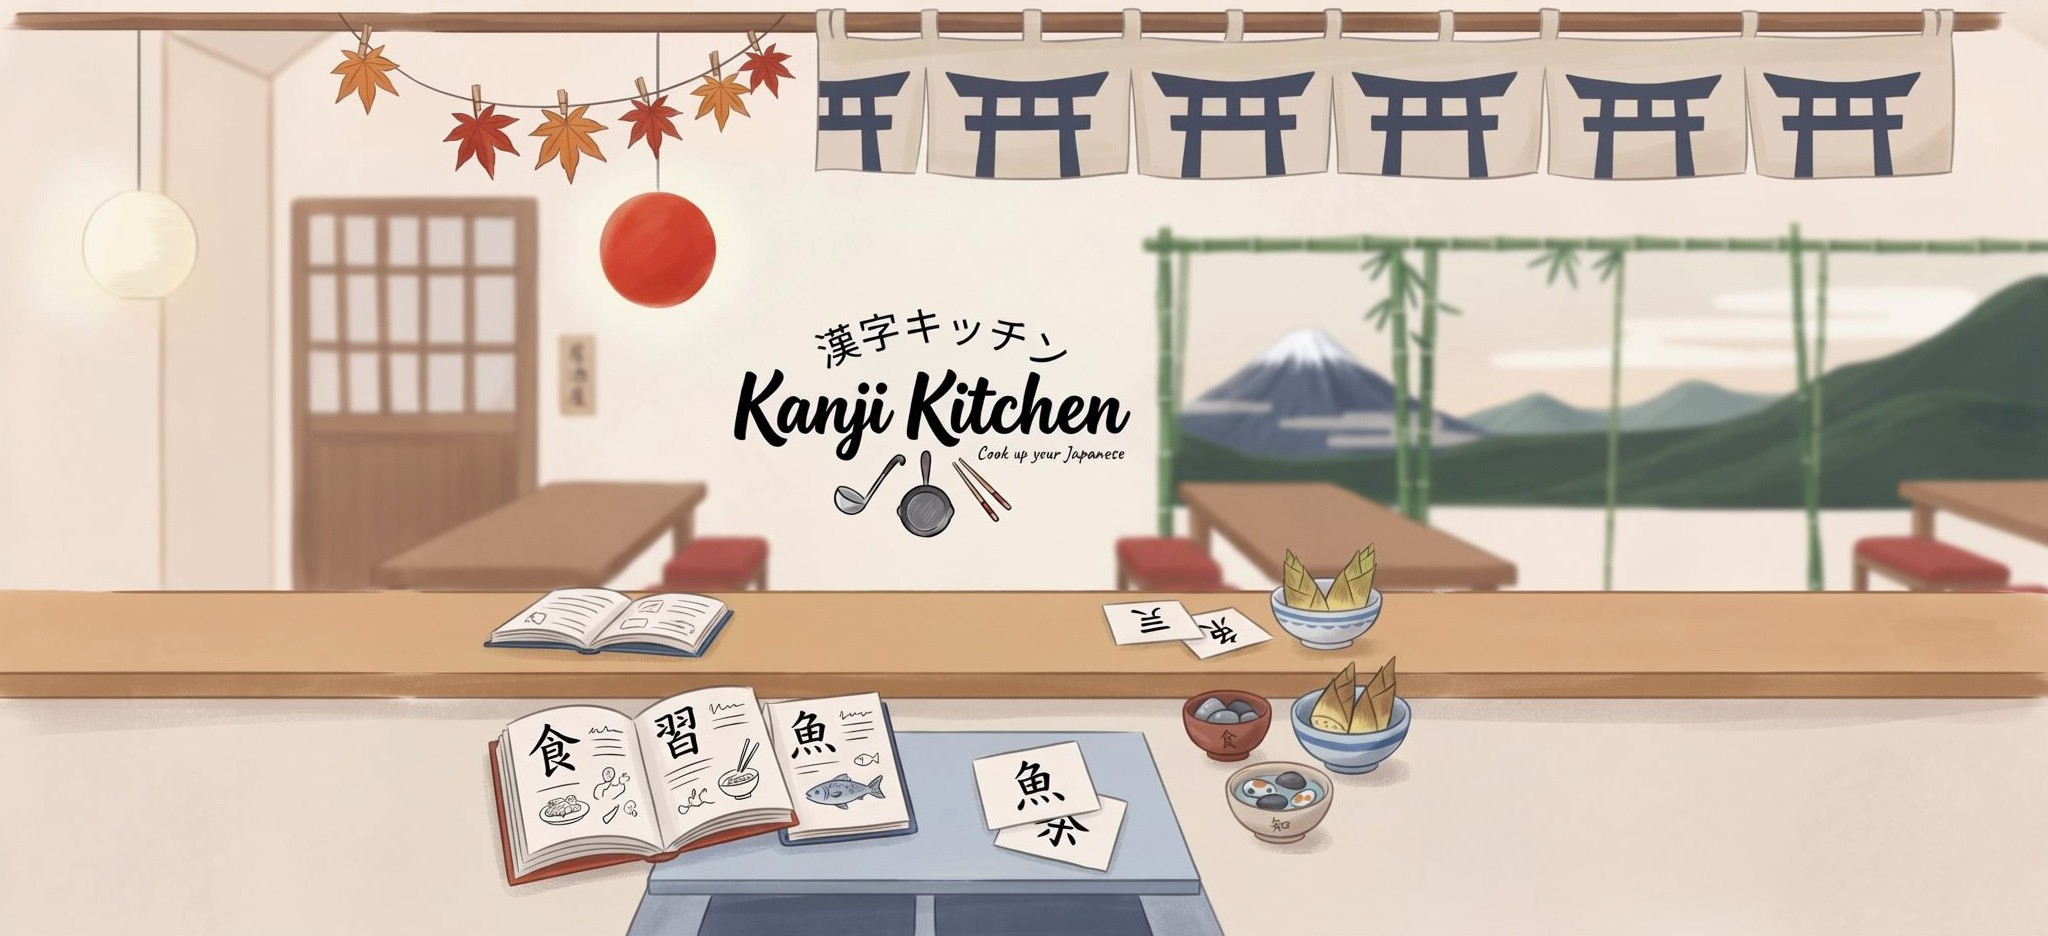
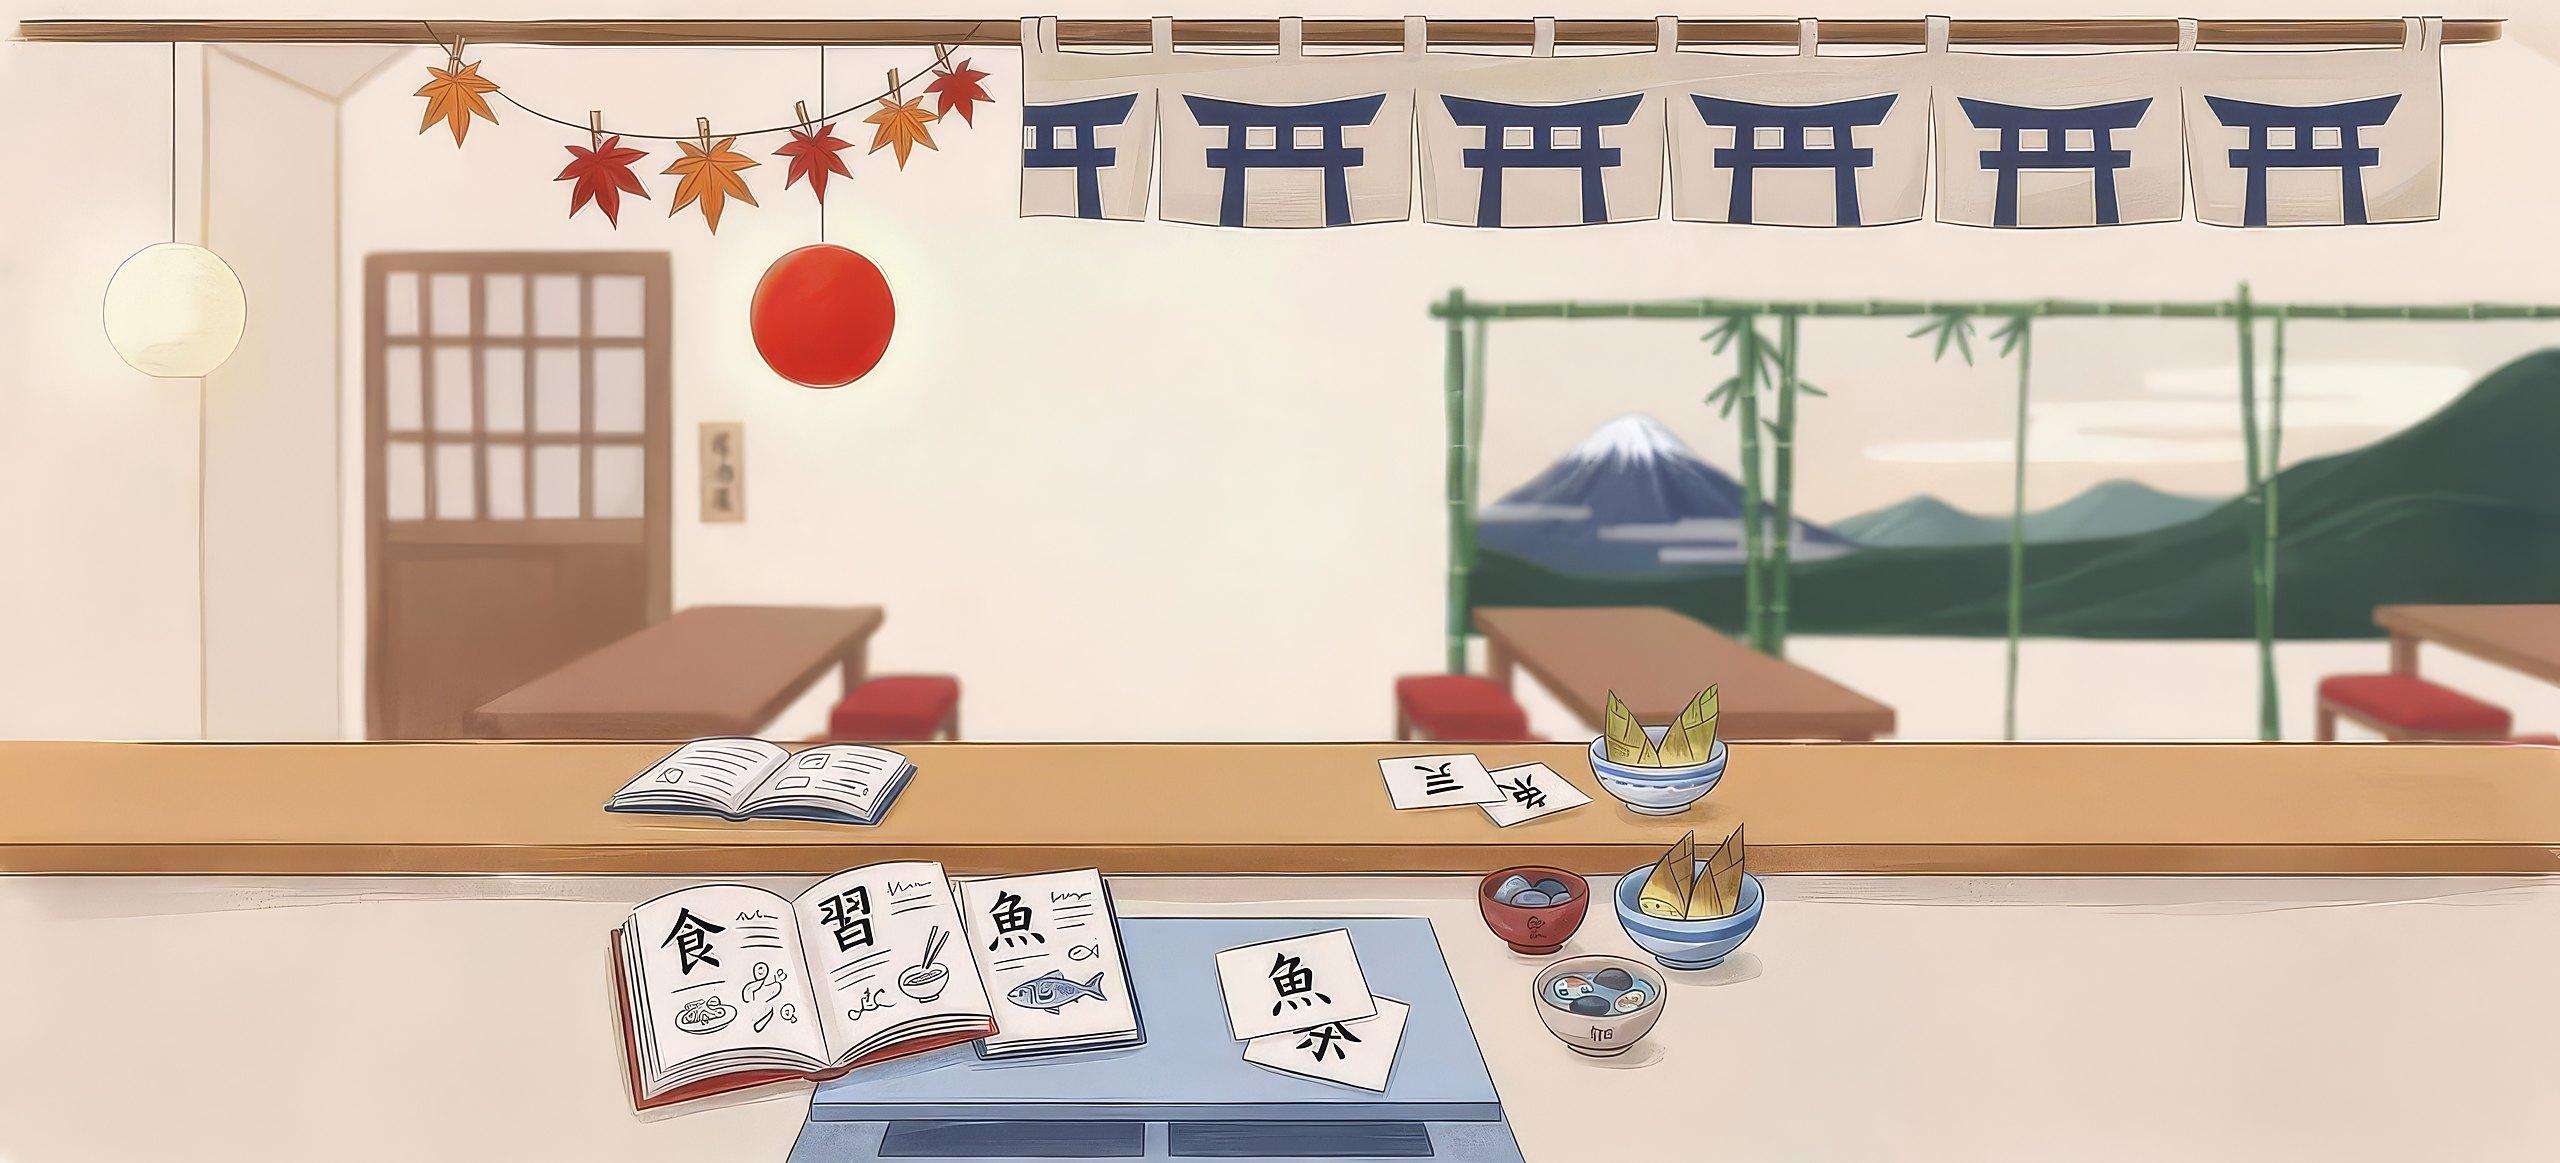
Add files via upload

diff --git a/kanji-drill.html b/kanji-drill.html
@@ -172,12 +172,14 @@
        screens it is not drawn and the seal + title on the wall do the job. */
     #page-kanji-drill { position: relative; }
     .kd-logo { display: none; }
-    @media (min-width: 1440px) {
+    @media (min-width: 1500px) {
       .kd-logo { display: block; position: absolute; z-index: 3; pointer-events: none;
-        left: calc(50% + 404px); top: calc(var(--kd-eye) + 395px); width: min(320px, calc(50vw - 540px)); height: auto;
+        left: calc(50% + 440px); top: calc(var(--kd-eye) + 395px); width: min(320px, calc(50vw - 560px)); height: auto;
         filter: drop-shadow(0 0 10px rgba(255,255,255,0.85)); }
       .wok-hero.kd-hero > .kd-hero-inner .wok-title-row { visibility: hidden; }
     }
+    /* the footer follows the paper directly, with no strip of page background between */
+    #page-kanji-drill + .site-footer { margin-top: 0; }
     /* Back to the wall: the first chip in the toolbar, where your hands are. */
     .kd-back { flex: none; display: inline-flex; align-items: center; gap: 0.35rem; height: 34px; padding: 0 0.85rem 0 0.7rem;
       border-radius: 999px; border: 1.5px solid var(--wok-ink); background: #fff; color: var(--wok-ink);
